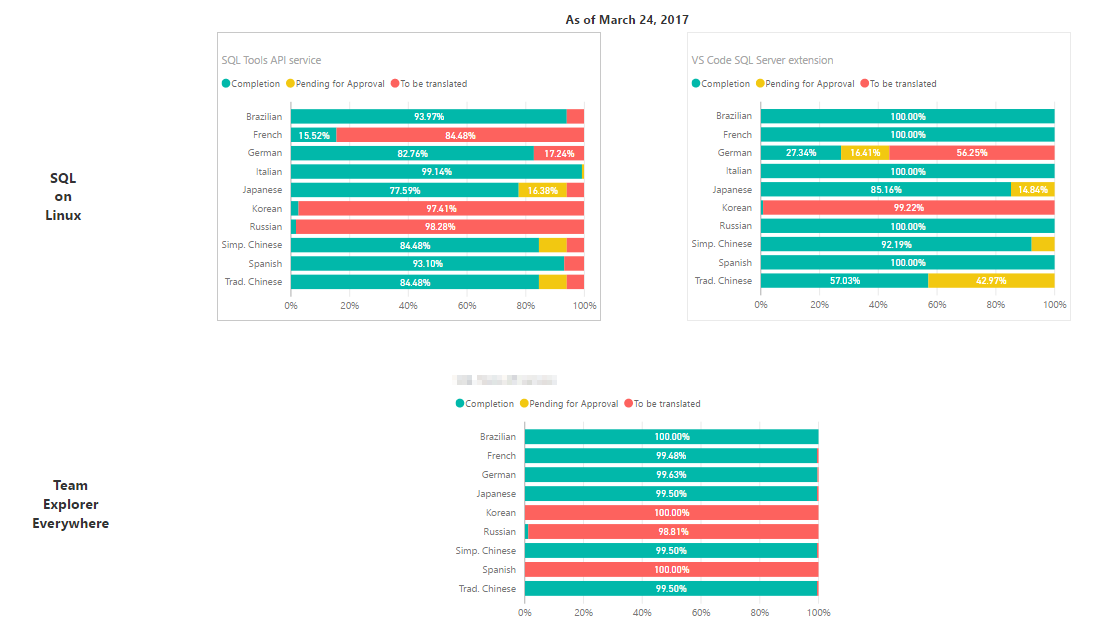
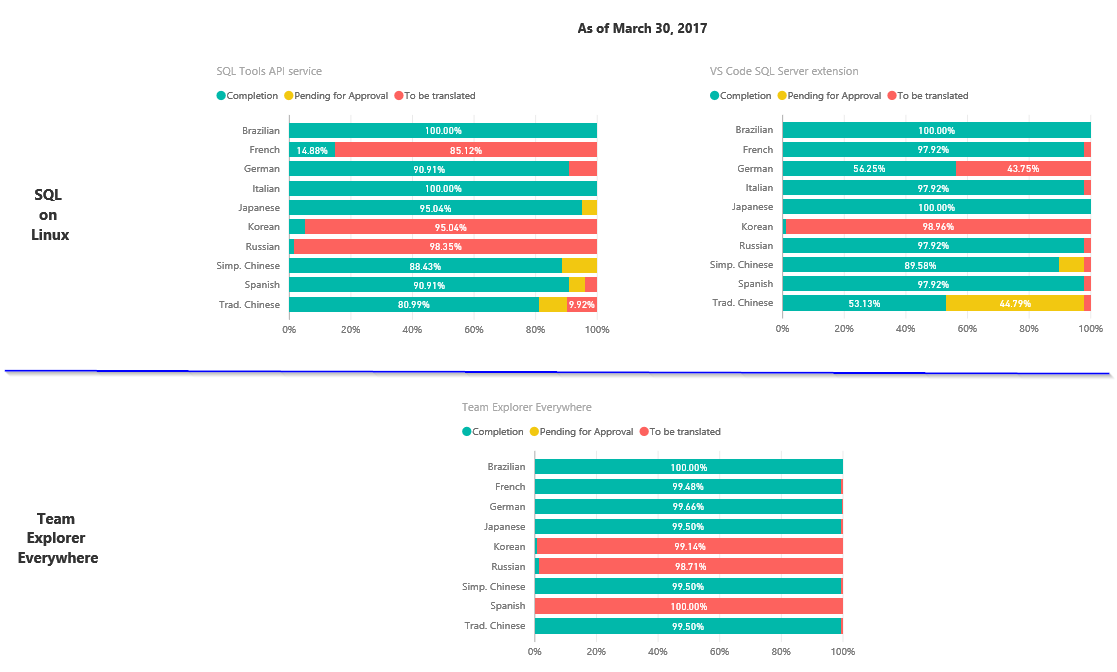
updated images and status

diff --git a/dashboards/Translation-Dashboard.md b/dashboards/Translation-Dashboard.md
@@ -1,0 +1,15 @@
+## Latest Translation Status
+
+### 
+![Translation Status](https://github.com/Microsoft/Localization/blob/master/dashboards/TranslationStatus.PNG?raw=true)
+
+## Contributors and Contributions
+### 
+![Contributors and Contributions](https://github.com/Microsoft/Localization/blob/master/dashboards/ContributorsContributions.PNG?raw=true)
+
+
+***
+
+## Previous Dashboards
+- [2017-03-16](https://github.com/Microsoft/Localization/blob/master/dashboards/Dashboard-as-of-2017_03_16.md)
+- [2017-03-13](https://github.com/Microsoft/Localization/blob/master/dashboards/Dashboard-as-of-2017_03_13.md)

diff --git a/dashboards/Dashboard-as-of-2017_03_24.md b/dashboards/Dashboard-as-of-2017_03_24.md
@@ -1,0 +1,12 @@
+## Translation Status as of 2017-03-24
+
+### 
+![Translation Status](img/TranslationStatus-2017-03-24.PNG)
+
+## Contributors and Contributions
+### 
+![Contributors and Contributions](img/ContributorsContributions-2017-03-24.PNG)
+
+
+***
+[Back to the Wiki](https://github.com/Microsoft/Localization/wiki)
